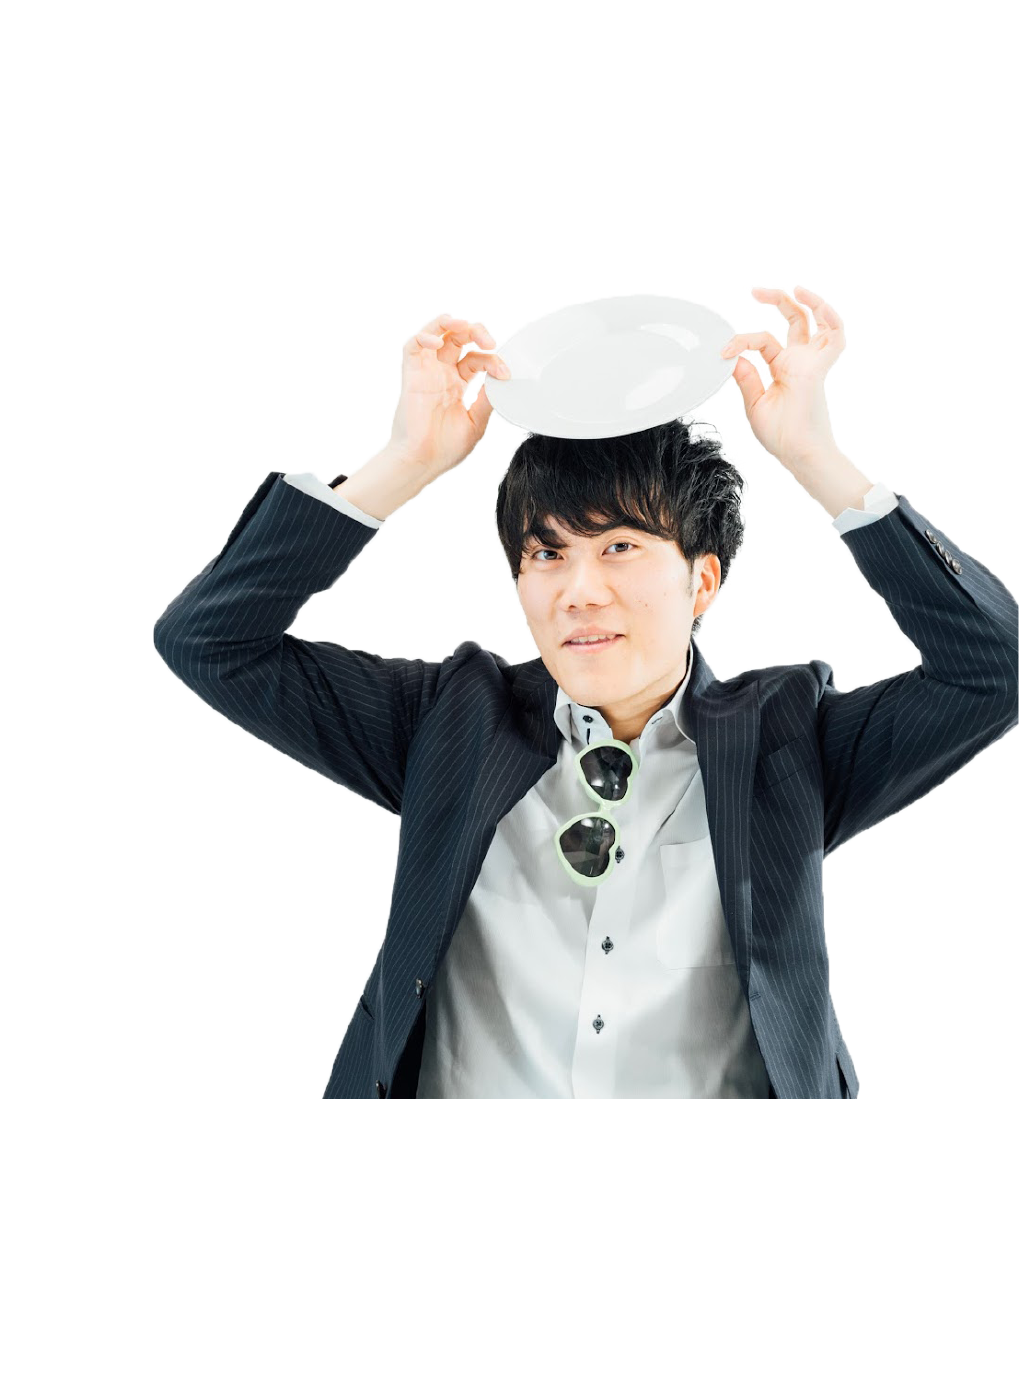
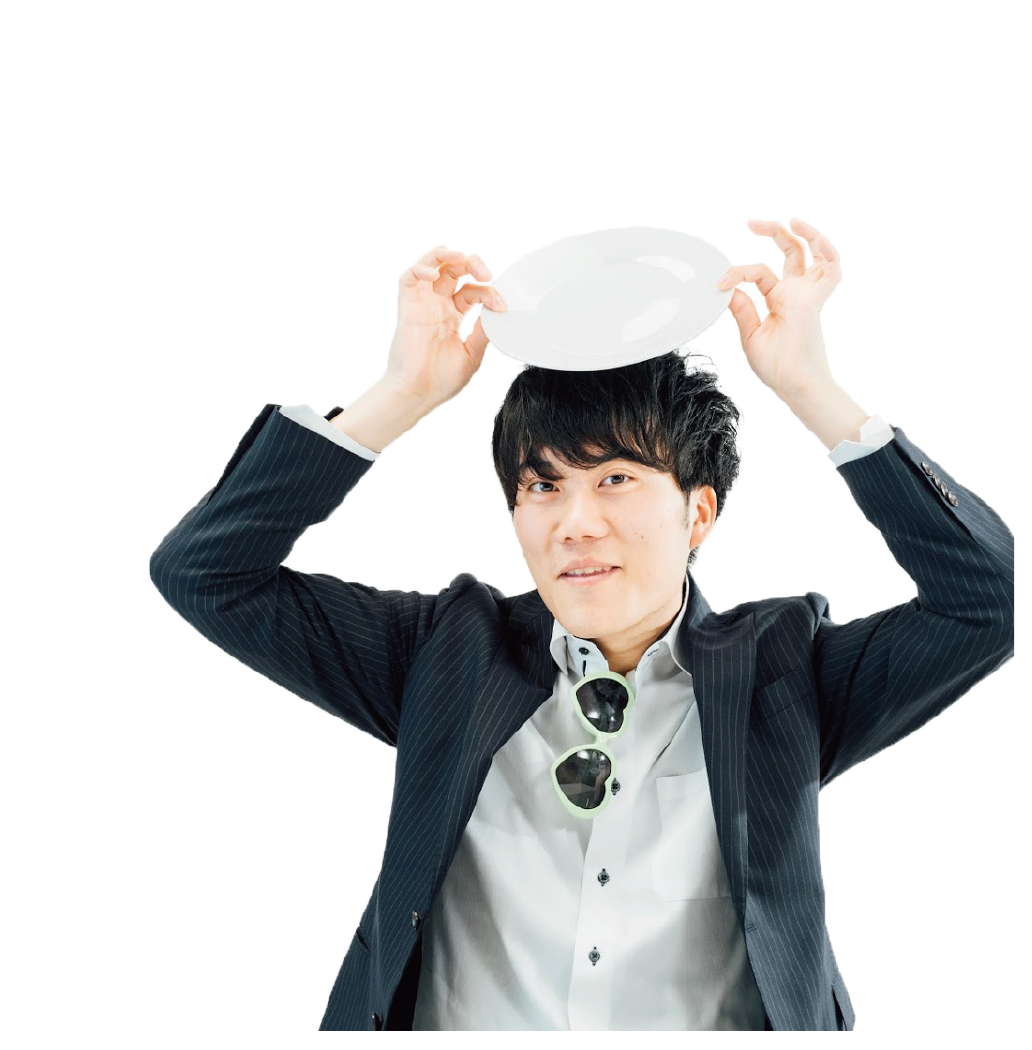
縦画面デザイン

diff --git a/css/chart.css b/css/chart.css
@@ -249,14 +249,23 @@ body{
   right: 0;
   bottom: 8vh;
   margin: auto;
-  animation:bushomei 1s infinite;
+  animation:bushomei 2s infinite;
 }
 @keyframes bushomei{
-  0%{transform: rotate(-3deg);}
-  40%{transform: rotate(-3deg);}
-  50%{transform: rotate(-3deg);}
-  60%{transform: rotate(-3deg);}
-  100%{transform: rotate(-3deg);}
+  0%{transform: rotate(0deg);}
+  36%{transform: rotate(0deg);}
+  37%{transform: rotate(-5deg);}
+  40%{transform: rotate(0deg);}
+  42%{transform: rotate(0deg);}
+  43%{transform: rotate(5deg);}
+  44%{transform: rotate(0deg);}
+  46%{transform: rotate(0deg);}
+  47%{transform: rotate(-5deg);}
+  50%{transform: rotate(0deg);}
+  52%{transform: rotate(0deg);}
+  53%{transform: rotate(5deg);}
+  54%{transform: rotate(0deg);}
+  100%{transform: rotate(0deg);}
 }
 #picture{
   width:40vw;
@@ -265,7 +274,7 @@ body{
   bottom:0px;
 }
 #picture2{
-  width:28vw;
+  width:40vw;
   position: absolute;
   left:0px;
   bottom:0px;
